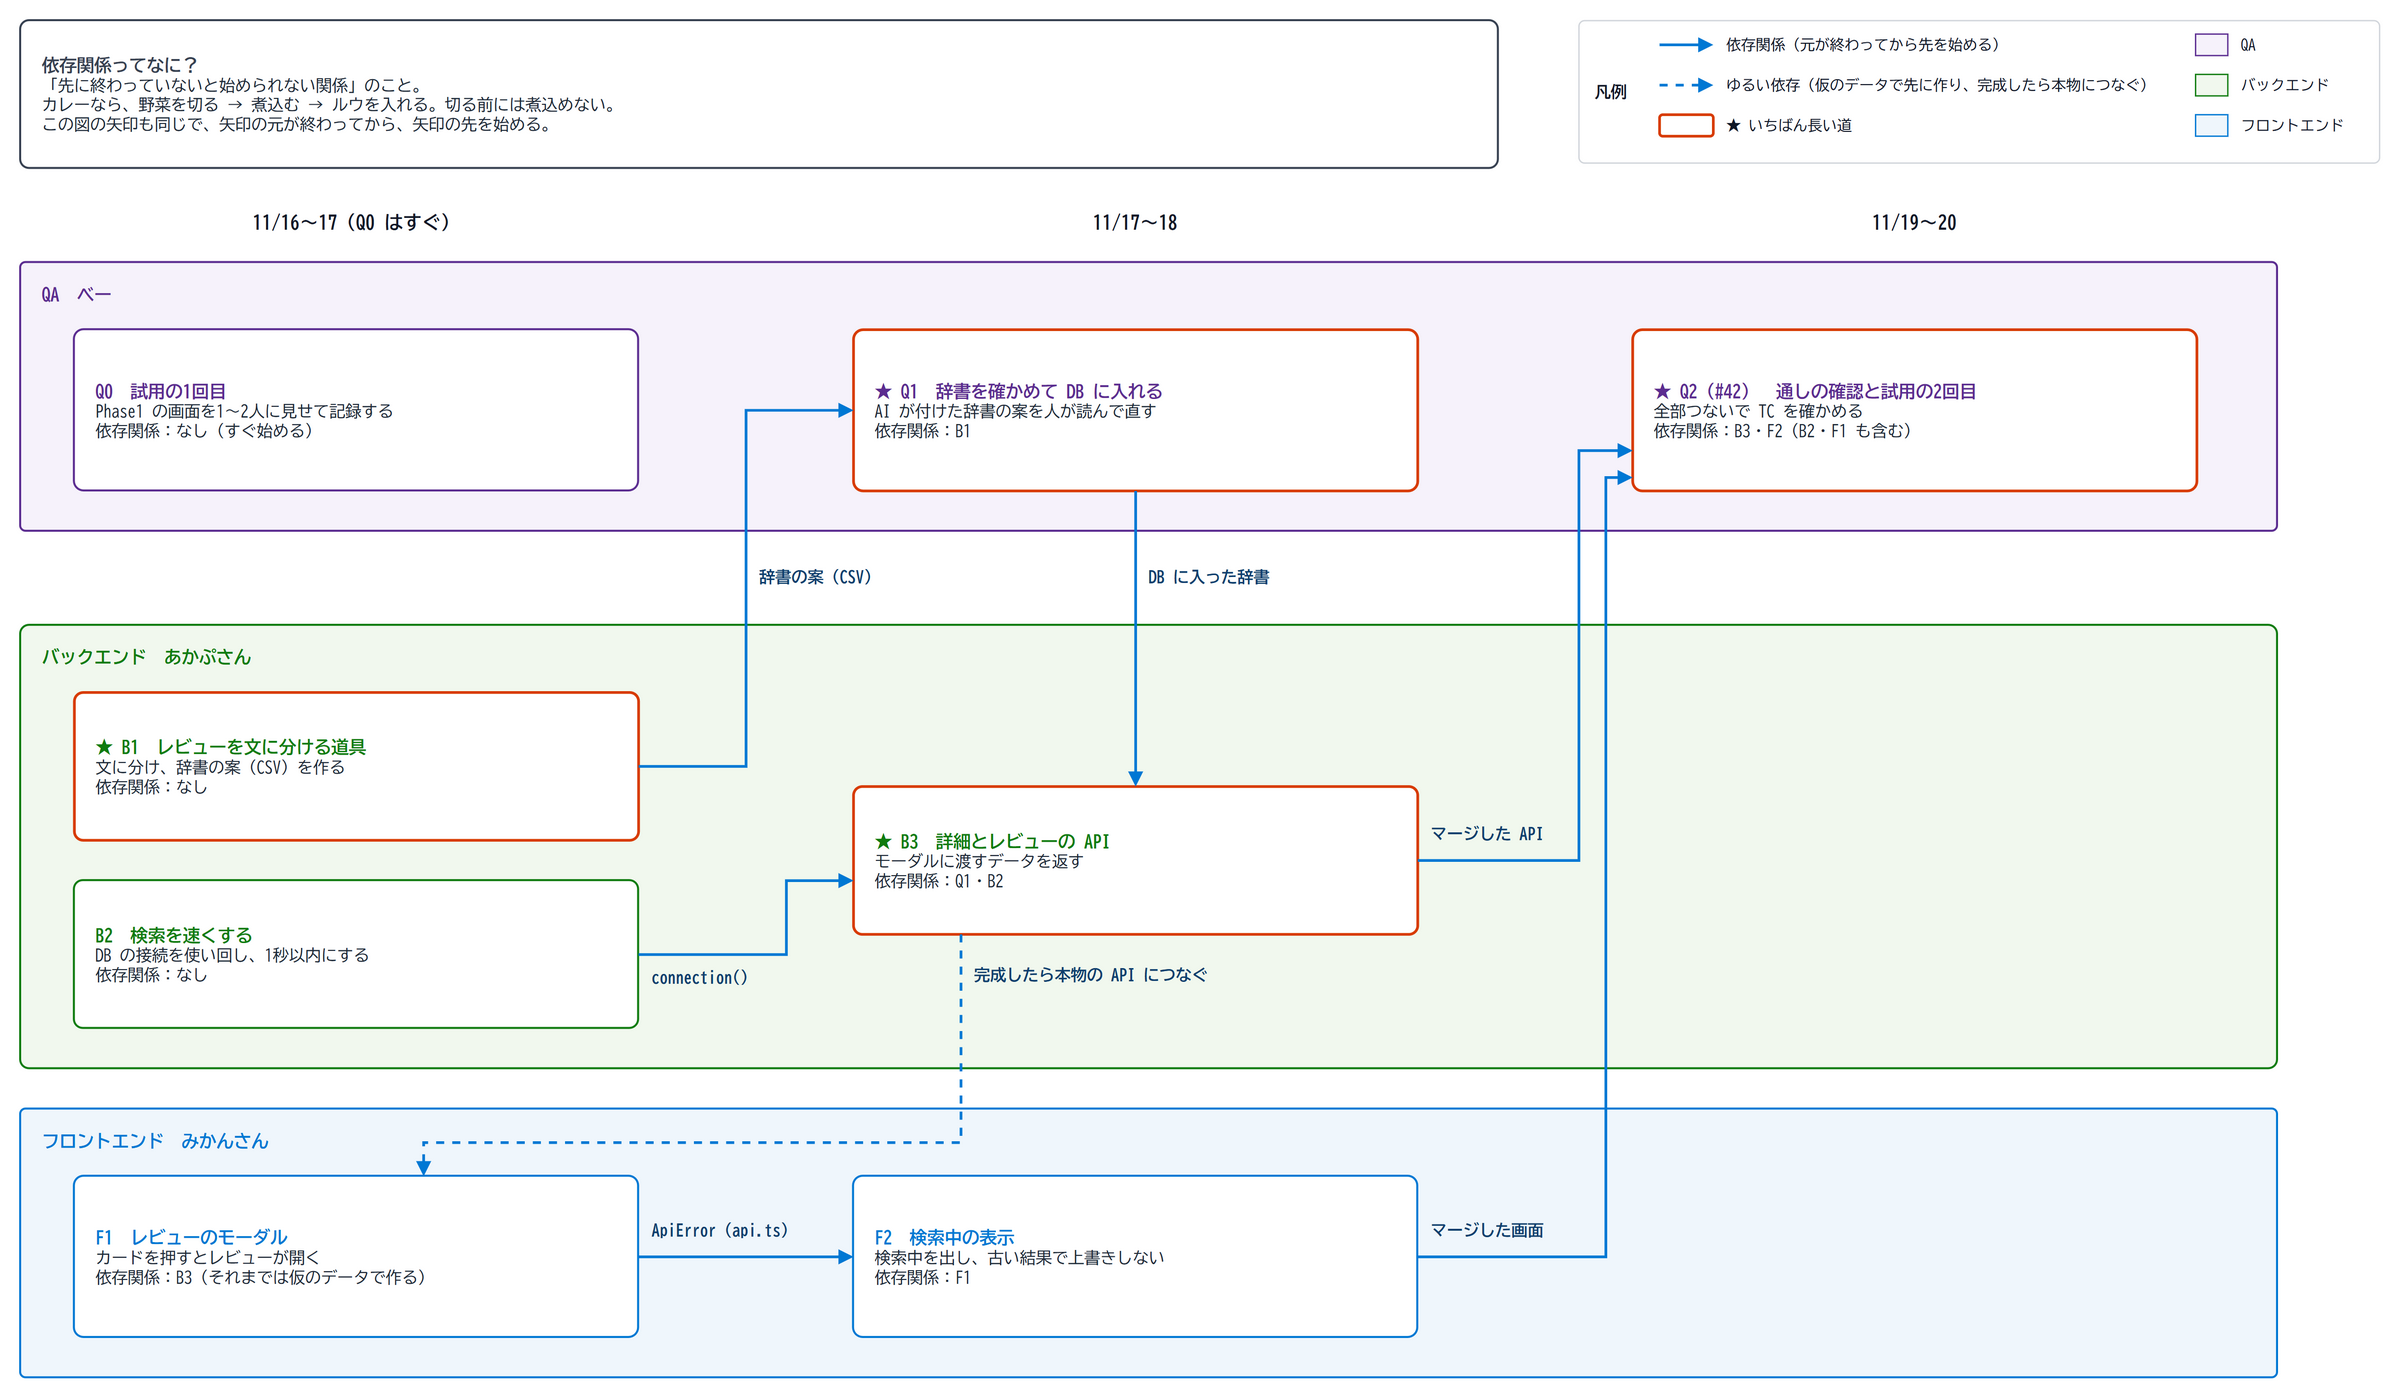
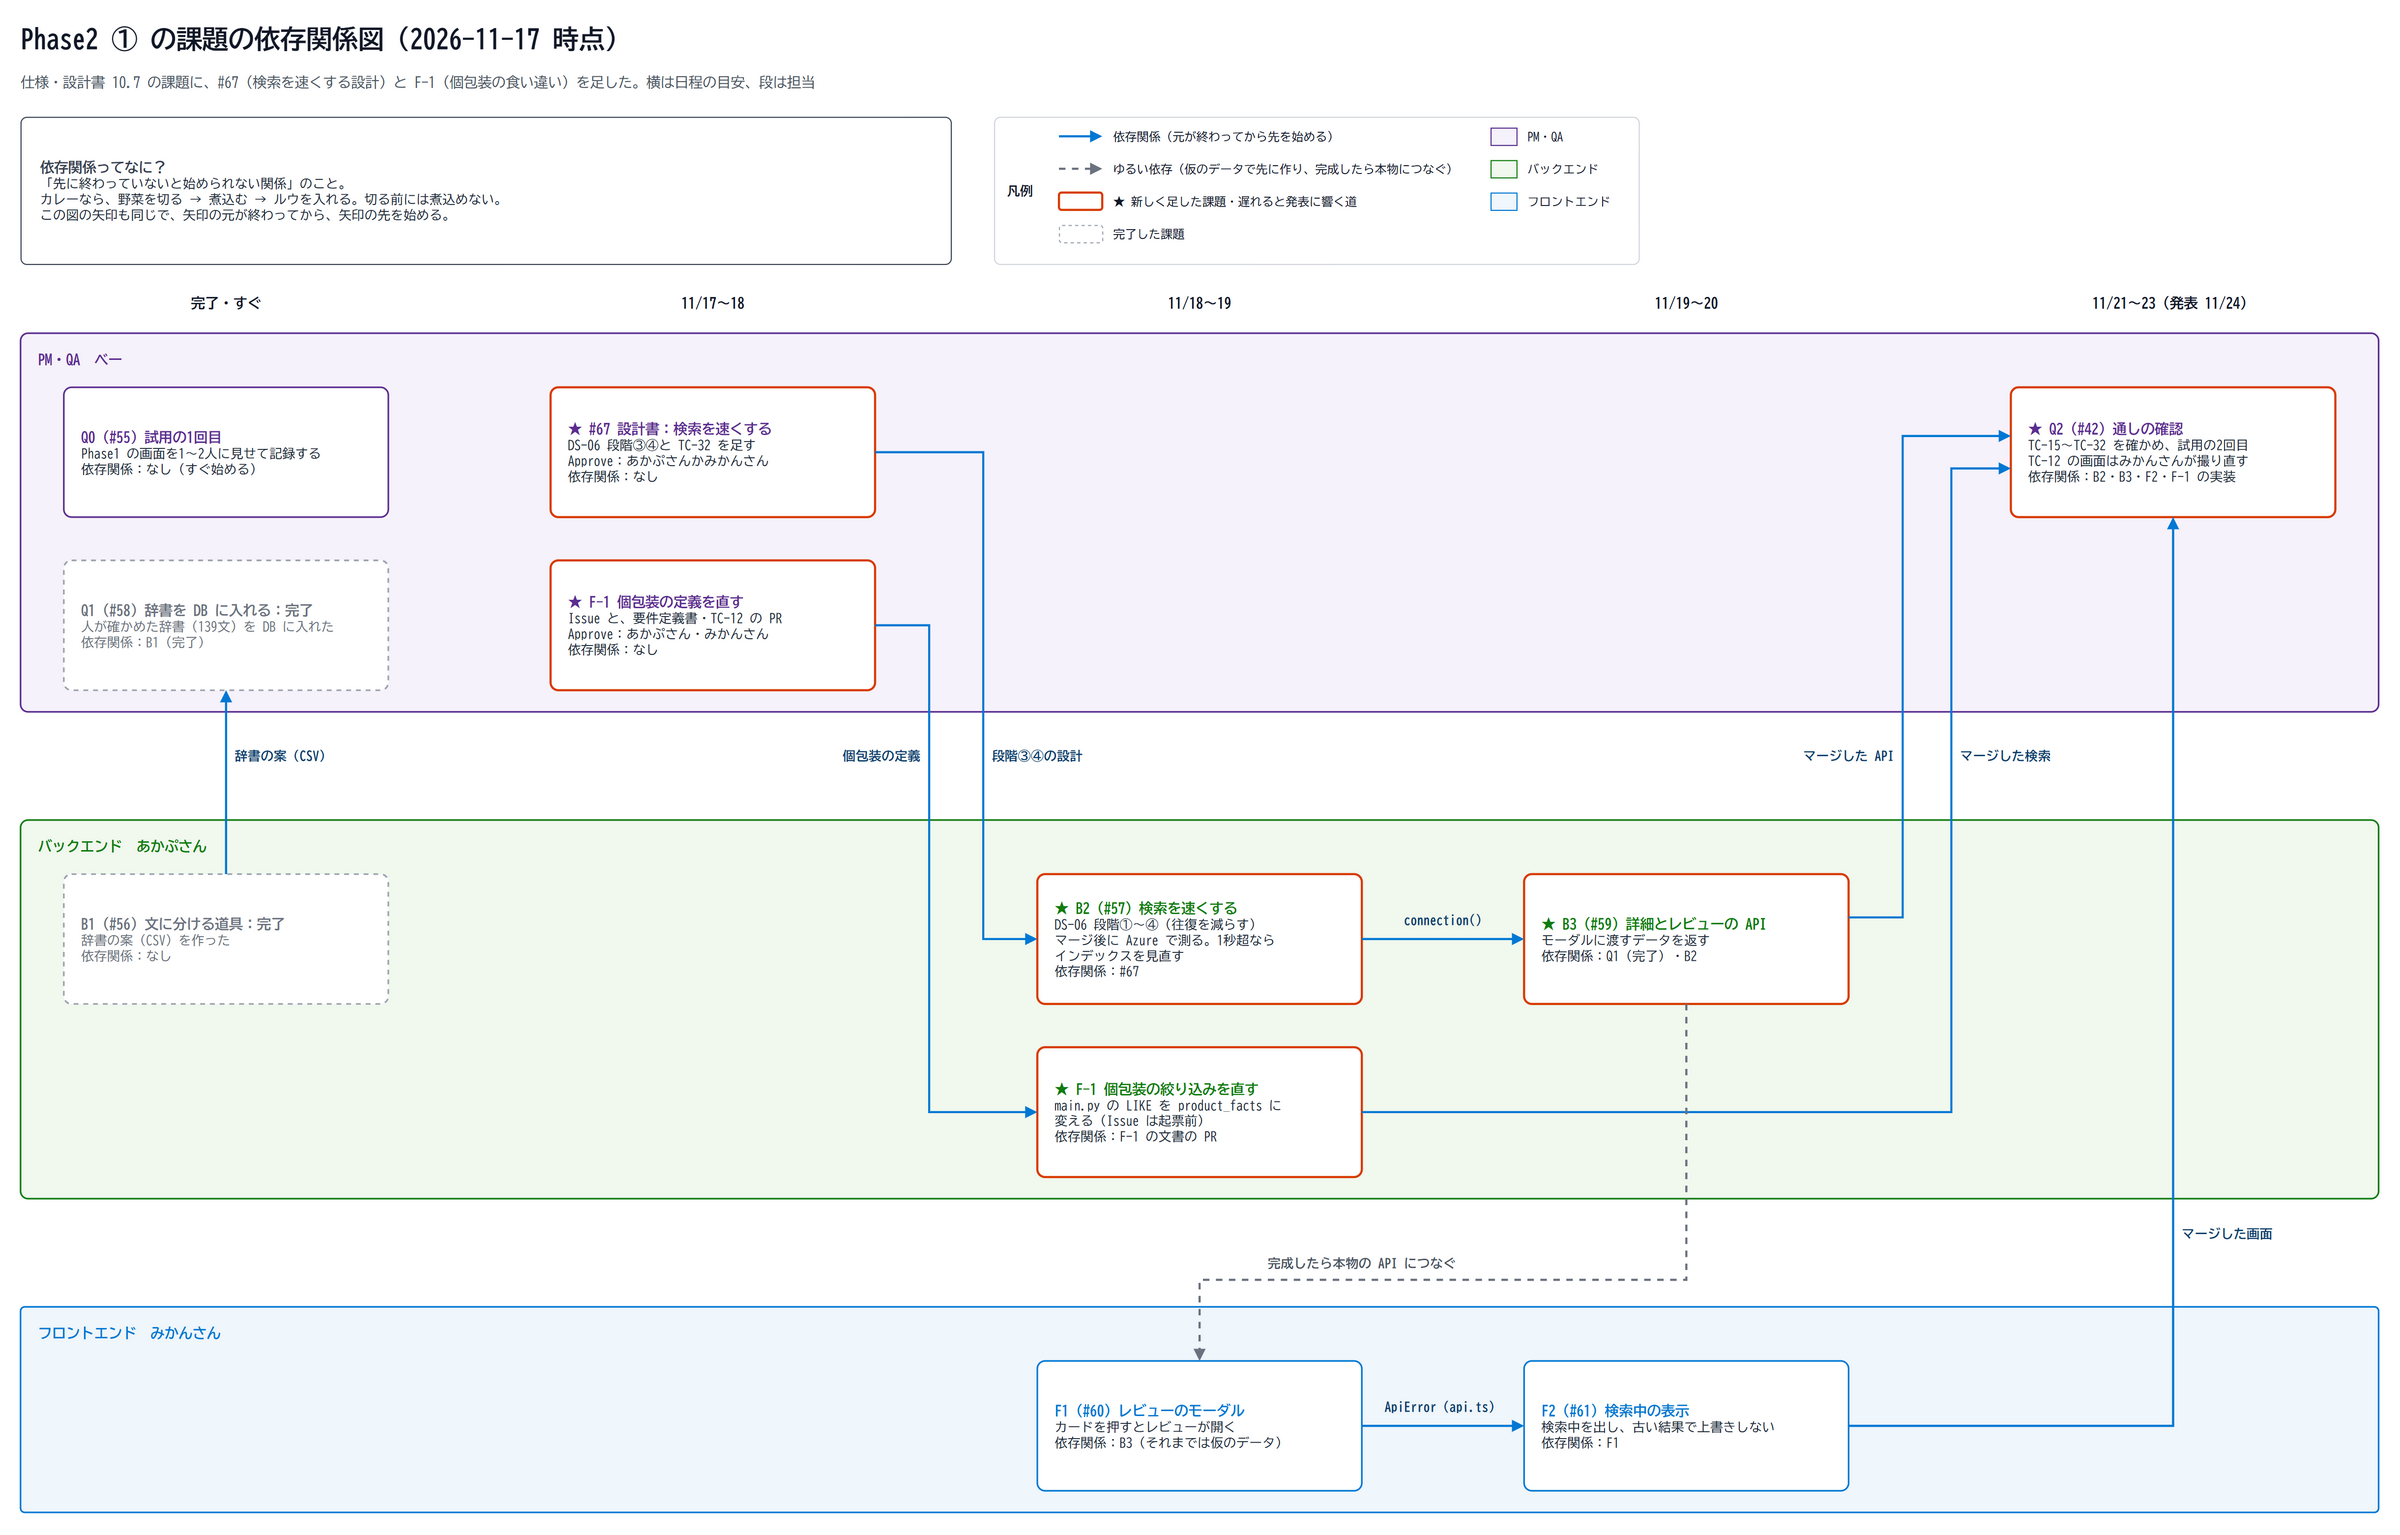
docs(docs): 依存関係図に #67 と F-1 の流れを足し、完了した課題を示す (#57)

diff --git a/docs/図/scripts/dependency_phase2_1.py b/docs/図/scripts/dependency_phase2_1.py
@@ -1,0 +1,128 @@
+# 依存関係図（Phase2 ①）を作る。python -I docs/図/scripts/dependency_phase2_1.py
+# 出典：仕様・設計書 10.7（課題と依存関係）、#67（DS-06 段階③④）、2026-11-17 の F-1 の判断（文書の PR を分ける）
+import os
+import sys
+
+sys.path.insert(0, os.path.expanduser("~/.claude/skills/drawio-diagram/scripts"))
+from drawio_kit import Diagram  # noqa: E402
+
+HERE = os.path.dirname(os.path.abspath(__file__))
+DRAWIO = os.path.join(HERE, "..", "drawio", "依存関係図.drawio")
+PNG = os.path.join(HERE, "..", "png", "依存関係図_1_Phase2-1.png")
+
+d = Diagram(
+    "Phase2 ① の課題の依存関係図（2026-11-17 時点）",
+    "仕様・設計書 10.7 の課題に、#67（検索を速くする設計）と F-1（個包装の食い違い）を足した。横は日程の目安、段は担当",
+)
+
+# 説明と凡例
+d.vertex(0, 90, 860, 136,
+         "<font style='font-size:13px' color='#374151'><b>依存関係ってなに？</b></font><br>"
+         "<font color='#1F2937'>「先に終わっていないと始められない関係」のこと。<br>"
+         "カレーなら、野菜を切る → 煮込む → ルウを入れる。切る前には煮込めない。<br>"
+         "この図の矢印も同じで、矢印の元が終わってから、矢印の先を始める。</font>",
+         "rounded=1;arcSize=4;fillColor=#FFFFFF;strokeColor=#374151;align=left;verticalAlign=middle;"
+         "spacingLeft=16;fontSize=12;", kind="node", pad=(16, 10, 6, 6))
+d.legend(
+    900, 90,
+    lines=[("req", "依存関係（元が終わってから先を始める）"),
+           ("res", "ゆるい依存（仮のデータで先に作り、完成したら本物につなぐ）")],
+    extras=[("rounded=1;fillColor=#FFFFFF;strokeColor=#D83B01;strokeWidth=2;", "★ 新しく足した課題・遅れると発表に響く道"),
+            ("rounded=1;fillColor=#FFFFFF;strokeColor=#9CA3AF;dashed=1;", "完了した課題")],
+    tiers=[("db", "PM・QA"), ("api", "バックエンド"), ("front", "フロントエンド")],
+)
+
+# 列（日程の目安）と段（担当）
+W, H = 300, 120
+G = 150                         # 列の間（矢印とラベルを通す）
+COL = [40 + i * (W + G) for i in range(5)]
+DATES = ["完了・すぐ", "11/17〜18", "11/18〜19", "11/19〜20", "11/21〜23（発表 11/24）"]
+for x, t in zip(COL, DATES):
+    d.text(x, 250, W, 24, t, size=13, color="#111827", bold=True)
+
+LANE_W = COL[4] + W + 40
+Y_PM, Y_BE, Y_FE = 290, 740, 1190
+d.group(0, Y_PM, LANE_W, 350, "PM・QA　べー", tier="db")
+d.group(0, Y_BE, LANE_W, 350, "バックエンド　あかぷさん", tier="api")
+d.group(0, Y_FE, LANE_W, 190, "フロントエンド　みかんさん", tier="front")
+R1 = lambda y: y + 50          # 1段目の上端
+R2 = lambda y: y + 50 + H + 40  # 2段目の上端
+
+# べー
+d.node(COL[0], R1(Y_PM), W, H, "Q0（#55）試用の1回目",
+       "Phase1 の画面を1〜2人に見せて記録する<br>依存関係：なし（すぐ始める）", tier="db")
+d.node(COL[0], R2(Y_PM), W, H, "Q1（#58）辞書を DB に入れる：完了",
+       "人が確かめた辞書（139文）を DB に入れた<br>依存関係：B1（完了）", tier="db", muted=True)
+d.node(COL[1], R1(Y_PM), W, H, "★ #67 設計書：検索を速くする",
+       "DS-06 段階③④と TC-32 を足す<br>Approve：あかぷさんかみかんさん<br>依存関係：なし", tier="db", highlight=True)
+d.node(COL[1], R2(Y_PM), W, H, "★ F-1 個包装の定義を直す",
+       "Issue と、要件定義書・TC-12 の PR<br>Approve：あかぷさん・みかんさん<br>依存関係：なし", tier="db", highlight=True)
+d.node(COL[4], R1(Y_PM), W, H, "★ Q2（#42）通しの確認",
+       "TC-15〜TC-32 を確かめ、試用の2回目<br>TC-12 の画面はみかんさんが撮り直す<br>依存関係：B2・B3・F2・F-1 の実装", tier="db", highlight=True)
+
+# あかぷさん
+d.node(COL[0], R1(Y_BE), W, H, "B1（#56）文に分ける道具：完了",
+       "辞書の案（CSV）を作った<br>依存関係：なし", tier="api", muted=True)
+d.node(COL[2], R1(Y_BE), W, H, "★ B2（#57）検索を速くする",
+       "DS-06 段階①〜④（往復を減らす）<br>マージ後に Azure で測る。1秒超なら<br>インデックスを見直す<br>依存関係：#67", tier="api", highlight=True)
+d.node(COL[3], R1(Y_BE), W, H, "★ B3（#59）詳細とレビューの API",
+       "モーダルに渡すデータを返す<br>依存関係：Q1（完了）・B2", tier="api", highlight=True)
+d.node(COL[2], R2(Y_BE), W, H, "★ F-1 個包装の絞り込みを直す",
+       "main.py の LIKE を product_facts に<br>変える（Issue は起票前）<br>依存関係：F-1 の文書の PR", tier="api", highlight=True)
+
+# みかんさん
+d.node(COL[2], R1(Y_FE), W, H, "F1（#60）レビューのモーダル",
+       "カードを押すとレビューが開く<br>依存関係：B3（それまでは仮のデータ）", tier="front")
+d.node(COL[3], R1(Y_FE), W, H, "F2（#61）検索中の表示",
+       "検索中を出し、古い結果で上書きしない<br>依存関係：F1", tier="front")
+
+# 矢印。ラベルは線の中央に自動で置かず、段と段のすき間に置く
+cy = lambda y: y + H / 2
+GAP1 = Y_PM + 350 + 30          # べーとあかぷさんの段のすき間（ラベルの y）
+GAP2 = Y_BE + 350 + 22          # あかぷさんとみかんさんの段のすき間
+LBL = dict(size=12, color="#0F3E6E", bold=True)
+
+
+def label_left(x, y, t, w=130):
+    d.text(x - 8 - w, y, w, 20, t, align="right", **LBL)
+
+
+def label_right(x, y, t, w=130):
+    d.text(x + 8, y, w, 20, t, align="left", **LBL)
+
+
+# B1 → Q1（完了）
+d.edge([(190, R1(Y_BE)), (190, R2(Y_PM) + H)], "req")
+label_right(190, GAP1, "辞書の案（CSV）")
+# #67 → B2、F-1 の文書 → F-1 の実装
+xr = COL[1] + W
+v2, v3 = xr + 100, xr + 50
+d.edge([(xr, cy(R1(Y_PM))), (v2, cy(R1(Y_PM))), (v2, cy(R1(Y_BE))), (COL[2], cy(R1(Y_BE)))], "req")
+label_right(v2, GAP1, "段階③④の設計")
+d.edge([(xr, cy(R2(Y_PM))), (v3, cy(R2(Y_PM))), (v3, cy(R2(Y_BE))), (COL[2], cy(R2(Y_BE)))], "req")
+label_left(v3, GAP1, "個包装の定義")
+# B2 → B3
+d.edge([(COL[2] + W, cy(R1(Y_BE))), (COL[3], cy(R1(Y_BE)))], "req")
+d.text(COL[2] + W + 10, cy(R1(Y_BE)) - 28, G - 20, 20, "connection()", **LBL)
+# B3 → Q2、F-1 の実装 → Q2
+xr3 = COL[3] + W
+v5, v6 = xr3 + 50, xr3 + 95
+d.edge([(xr3, cy(R1(Y_BE)) - 20), (v5, cy(R1(Y_BE)) - 20), (v5, cy(R1(Y_PM)) - 15), (COL[4], cy(R1(Y_PM)) - 15)], "req")
+label_left(v5, GAP1, "マージした API")
+d.edge([(COL[2] + W, cy(R2(Y_BE))), (v6, cy(R2(Y_BE))), (v6, cy(R1(Y_PM)) + 15), (COL[4], cy(R1(Y_PM)) + 15)], "req")
+label_right(v6, GAP1, "マージした検索")
+# B3 → F1（ゆるい依存）
+hx = Y_FE - 25
+d.edge([(COL[3] + W / 2, R1(Y_BE) + H), (COL[3] + W / 2, hx), (COL[2] + W / 2, hx), (COL[2] + W / 2, R1(Y_FE))], "res")
+d.text(COL[2] + W / 2 + 20, hx - 26, 260, 20, "完成したら本物の API につなぐ", size=12, color="#4B5563", bold=True)
+# F1 → F2
+d.edge([(COL[2] + W, cy(R1(Y_FE))), (COL[3], cy(R1(Y_FE)))], "req")
+d.text(COL[2] + W + 10, cy(R1(Y_FE)) - 28, G - 20, 20, "ApiError（api.ts）", **LBL)
+# F2 → Q2
+v9 = COL[4] + W / 2
+d.edge([(xr3, cy(R1(Y_FE))), (v9, cy(R1(Y_FE))), (v9, R1(Y_PM) + H)], "req")
+label_right(v9, GAP2, "マージした画面")
+
+d.save(DRAWIO, page_name="1_Phase2-1")
+Diagram.export(DRAWIO, PNG, width=2400)
+print("OK", DRAWIO, PNG)

diff --git a/docs/図/README.md b/docs/図/README.md
@@ -11,7 +11,9 @@
 | [構成図.drawio](drawio/構成図.drawio) | 1_構成図 | 画面の部品・API の処理・DB のテーブルのつながり（Azure のアイコン入り） | 7.1 |
 | [構成図.drawio](drawio/構成図.drawio) | 2_シーケンス図_検索 | 贈る相手とシーンを選んで検索したときの、画面・API・DB の動き | 7.2 |
 | [構成図.drawio](drawio/構成図.drawio) | 3_シーケンス図_データ作成 | review_to_mother の行を作る手順（開発が月1回） | 7.2 |
-| [依存関係図.drawio](drawio/依存関係図.drawio) | 1_Phase2-1 | Phase2 ① の課題（Q0〜F2、Q2）の依存関係と日程の目安 | 仕様設計書 10.7 |
+| [依存関係図.drawio](drawio/依存関係図.drawio) | 1_Phase2-1 | Phase2 ① の課題（Q0〜F2、Q2）に、#67（検索を速くする設計）と F-1（個包装の食い違い）を足した依存関係と日程の目安（2026-11-17 時点）。完了した課題は灰色の破線 | 仕様設計書 10.7 |
+
+依存関係図は、[scripts/dependency_phase2_1.py](scripts/dependency_phase2_1.py) で作っている（drawio-diagram スキルの drawio_kit を使う）。直すときはスクリプトを直し、`python -I "docs/図/scripts/dependency_phase2_1.py"` で .drawio と PNG を作り直す。
 
 図の決まり
 
